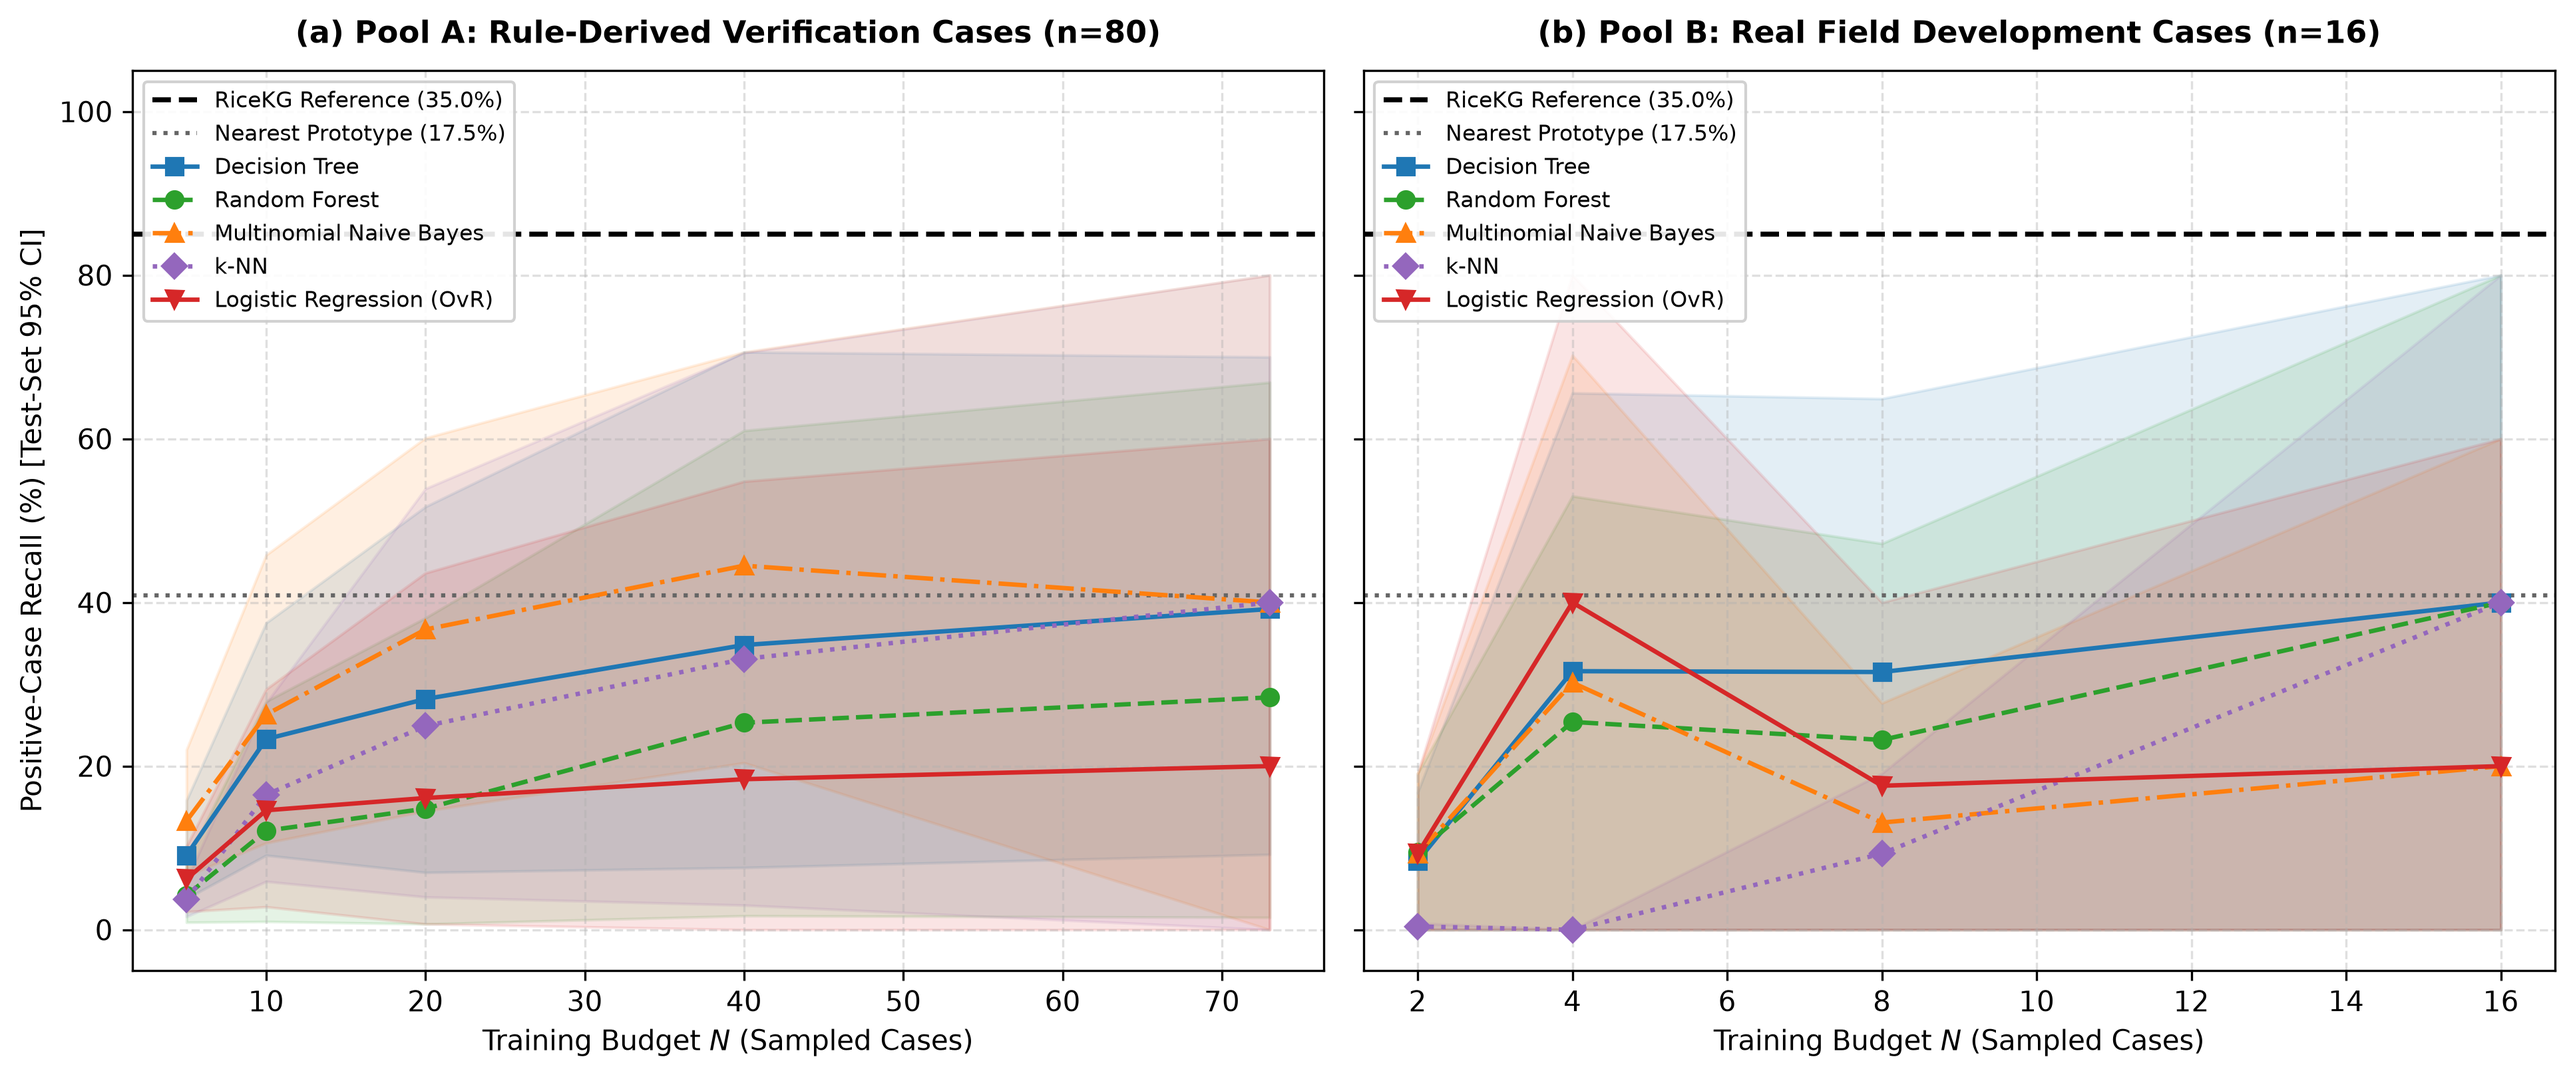
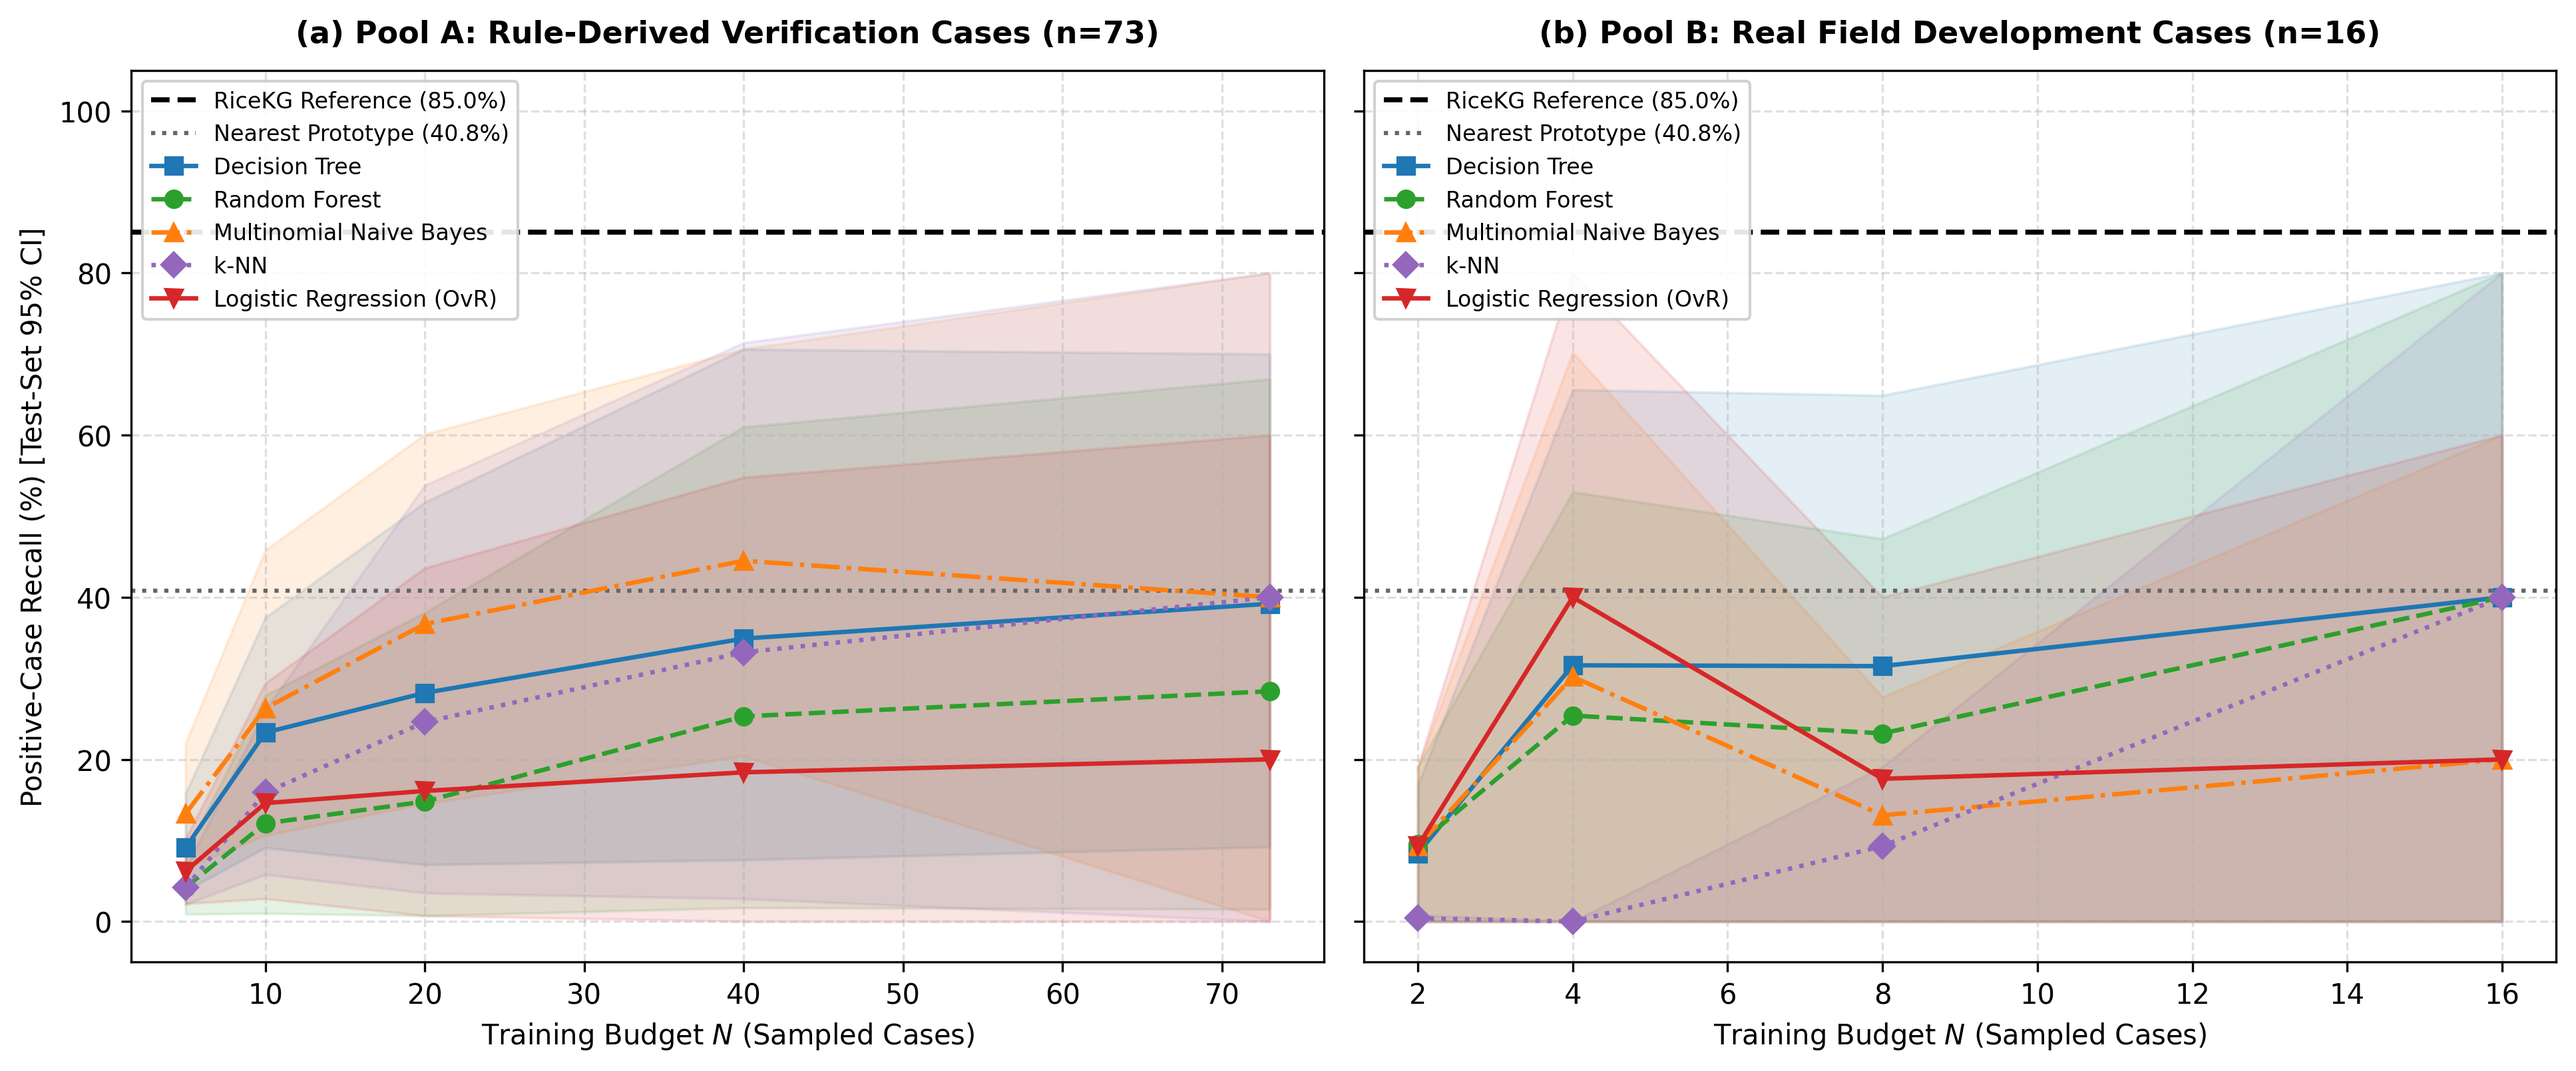
update

diff --git a/analysis/expert_validation.py b/analysis/expert_validation.py
@@ -95,6 +95,36 @@ def diagnosis_agreement(diag_rows, system, truth, rng):
 
         out["system_minus_rater_kappa"] = round(mean_sr - mean_rr, 3)
         out["system_minus_rater_kappa_ci95"] = _boot(n, diff, rng)
+
+        # Collapsed label space. The full space separates an explicit out-of-scope
+        # rejection ("Other") from a silent abstention ("Undetermined"), so a system
+        # that declines without giving a reason is scored as disagreeing with a rater
+        # who declines with one. Collapsing the two asks only whether an in-scope
+        # threat was named, and which -- the comparison that matches the system's
+        # designed scope. Uses its own RandomState so the interval does not depend on
+        # how much of the shared stream the preceding bootstrap consumed.
+        def _collapse(v):
+            return "Other" if v == "Undetermined" else v
+
+        Rc = {r: [_collapse(v) for v in R[r]] for r in raters}
+        Sc = [_collapse(v) for v in S]
+        mean_rr_c = statistics.mean(_kappa(Rc[a], Rc[b]) for a, b in pairs)
+        mean_sr_c = statistics.mean(_kappa(Sc, Rc[r]) for r in raters)
+
+        def diff_c(idx):
+            rr = statistics.mean(_kappa([Rc[a][i] for i in idx], [Rc[b][i] for i in idx]) for a, b in pairs)
+            sr = statistics.mean(_kappa([Sc[i] for i in idx], [Rc[r][i] for i in idx]) for r in raters)
+            return sr - rr
+
+        out["collapsed_label_space"] = {
+            "definition": "Undetermined merged into Other: scores whether an in-scope threat was named, not how a decline was expressed",
+            "pairwise_rater_kappa": {f"{a}-{b}": round(_kappa(Rc[a], Rc[b]), 3) for a, b in pairs},
+            "system_rater_kappa": {r: round(_kappa(Sc, Rc[r]), 3) for r in raters},
+            "mean_rater_rater_kappa": round(mean_rr_c, 3),
+            "mean_system_rater_kappa": round(mean_sr_c, 3),
+            "system_minus_rater_kappa": round(mean_sr_c - mean_rr_c, 3),
+            "system_minus_rater_kappa_ci95": _boot(n, diff_c, np.random.RandomState(SEED)),
+        }
         # A range needs at least two rater pairs (three raters); with two raters the criterion is
         # whether the bootstrap CI of the RiceKG-minus-rater difference includes zero.
         out["system_within_rater_range"] = (
@@ -112,6 +142,24 @@ def diagnosis_agreement(diag_rows, system, truth, rng):
 
     out["vs_published_label"] = {
         who: {"all": acc(labels, range(n)), "positive_cases": acc(labels, pos)}
+        for who, labels in [*((r, R[r]) for r in raters), ("rater majority", majority), ("RiceKG strict", S)]
+    }
+
+    # Collapsed counterpart: a silent abstention ("Undetermined") is counted as an
+    # out-of-scope decline ("Other"), so declining is scored the same however it is
+    # expressed. This isolates how much of the system's apparent disagreement is the
+    # manner of declining rather than the decision itself.
+    def _col(v):
+        return "Other" if v == "Undetermined" else v
+
+    Tc = [_col(t) for t in T]
+
+    def acc_c(labels, idx):
+        lc = [_col(v) for v in labels]
+        return {"k": sum(lc[i] == Tc[i] for i in idx), "n": len(idx)}
+
+    out["vs_published_label_collapsed"] = {
+        who: {"all": acc_c(labels, range(n)), "positive_cases": acc_c(labels, pos)}
         for who, labels in [*((r, R[r]) for r in raters), ("rater majority", majority), ("RiceKG strict", S)]
     }
     out["label_distribution"] = {who: dict(Counter(labels)) for who, labels in [*R.items(), ("RiceKG strict", S)]}
@@ -258,6 +306,21 @@ def write_markdown(rep):
     L += ["", "Agreement with the published label (No_Diagnosis counted as Other):", "",
           "| Who | All cases | Positive cases |", "|:---|:---:|:---:|"]
     L += [f"| {who} | {_pct(v['all'])} | {_pct(v['positive_cases'])} |" for who, v in dx["vs_published_label"].items()]
+    cl = dx.get("collapsed_label_space")
+    if cl:
+        ci = cl["system_minus_rater_kappa_ci95"]
+        L += ["", "### Collapsed label space (`Undetermined` counted as `Other`)", "",
+              "The full label space separates an explicit out-of-scope rejection from a silent abstention, so a "
+              "system that declines without giving a reason is scored as disagreeing with a rater who declines "
+              "with one. Collapsing the two scores only whether an in-scope threat was named, and which.", "",
+              f"Mean rater–rater κ {cl['mean_rater_rater_kappa']}; mean RiceKG–rater κ "
+              f"{cl['mean_system_rater_kappa']}; difference {cl['system_minus_rater_kappa']} "
+              f"[95% CI {ci[0]}, {ci[1]}].", ""]
+        if dx.get("vs_published_label_collapsed"):
+            L += ["Agreement with the published label under the collapsed space:", "",
+                  "| Who | All cases | Positive cases |", "|:---|:---:|:---:|"]
+            L += [f"| {who} | {_pct(v['all'])} | {_pct(v['positive_cases'])} |"
+                  for who, v in dx["vs_published_label_collapsed"].items()]
     enc = rep["encoding"]
     if enc:
         L += ["", f"## Symptom encoding ({enc['n_cases']} cases, {enc['terms_used']} terms used)", "",

diff --git a/analysis/learning_curve.py b/analysis/learning_curve.py
@@ -468,13 +468,19 @@ def generate_publication_figure(
     rk_ref = pool_a_res["zero_shot_references"]["RiceKG (Full Proposed)"]["cv_positive_recall"]
     proto_ref = pool_a_res["zero_shot_references"]["Rule: Nearest Prototype"]["cv_positive_recall"]
 
-    for ax, res, title in [(ax1, pool_a_res, "(a) Pool A: Rule-Derived Verification Cases (n=80)"),
-                           (ax2, pool_b_res, "(b) Pool B: Real Field Development Cases (n=16)")]:
+    for ax, res, title in [
+        (ax1, pool_a_res, f"(a) Pool A: Rule-Derived Verification Cases (n={pool_a_res['pool_size']})"),
+        (ax2, pool_b_res, f"(b) Pool B: Real Field Development Cases (n={pool_b_res['pool_size']})"),
+    ]:
         budgets = res["budgets"]
 
         # Horizontal zero-shot reference lines
-        ax.axhline(rk_ref, color="#000000", ls="--", lw=1.8, label="RiceKG Reference (35.0%)", zorder=3)
-        ax.axhline(proto_ref, color="#666666", ls=":", lw=1.5, label="Nearest Prototype (17.5%)", zorder=2)
+        # Labels are derived from the plotted values so the legend cannot drift
+        # out of step with the data the way it did before ruleset v2.4.0.
+        ax.axhline(rk_ref, color="#000000", ls="--", lw=1.8,
+                   label=f"RiceKG Reference ({rk_ref:.1f}%)", zorder=3)
+        ax.axhline(proto_ref, color="#666666", ls=":", lw=1.5,
+                   label=f"Nearest Prototype ({proto_ref:.1f}%)", zorder=2)
 
         for m_name, st in styles.items():
             means = [res["by_budget"][str(b)]["models"][m_name]["mean_positive_recall"] for b in budgets]
@@ -708,7 +714,7 @@ def main():
     if args.pool in ("A", "both"):
         res_a = run_learning_curve_for_pool(
             pool_name="pool_A",
-            pool_source_desc="Rule-Derived Verification Suite (n=80)",
+            pool_source_desc=f"Rule-Derived Verification Suite (n={len(cases_pool_a)})",
             X_pool=X_pool_a,
             Y_pool=Y_pool_a,
             pool_cases=cases_pool_a,

diff --git a/results/REPORT.md b/results/REPORT.md
@@ -812,7 +812,7 @@ RiceKG predictions are computed with set-containment solvers (`fast_predict_rice
 <a id="learning-curve"></a>
 ## Cold-Start Learning-Curve Evaluation: Sample Efficiency vs. Knowledge Base
 
-> **Generated**: 2026-09-19 01:59:11 UTC  
+> **Generated**: 2026-09-19 09:10:25 UTC  
 > **Target Venue**: *Inteligencia Artificial* (IBERAMIA)  
 > **Evaluation Protocol**: Fixed held-out test set (`data/benchmark_field.csv`, `eval` split, $n=22$: 5 positives, 17 negative controls). $R=200$ stratified resamples without replacement per budget; reported with dual uncertainty decomposition (training-subsample variance across draws and test-set sampling variance via non-parametric paired bootstrap over the test cases, $B=1,000$).
 
@@ -834,10 +834,10 @@ Training cases drawn from `data/verification_suite.csv` ($n=73$, provenance `rul
 
 | Model | N=5 | N=10 | N=20 | N=40 | N=73 | Crossover Budget $N^*$ | First Non-Zero $N$ |
 |:---|:---:|:---:|:---:|:---:|:---:|:---:|:---:|
-| **Decision Tree** | 9.1% [4, 16] | 23.3% [9, 38] | 28.2% [7, 52] | 34.8% [8, 71] | 39.2% [9, 70] | None (≤ 73) | 5 |
+| **Decision Tree** | 9.1% [4, 16] | 23.3% [9, 38] | 28.2% [7, 52] | 34.9% [8, 71] | 39.2% [9, 70] | None (≤ 73) | 5 |
 | **Random Forest** | 4.2% [1, 8] | 12.1% [1, 28] | 14.8% [1, 38] | 25.3% [2, 61] | 28.4% [2, 67] | None (≤ 73) | 5 |
 | **Multinomial Naive Bayes** | 13.3% [7, 22] | 26.3% [11, 46] | 36.7% [14, 60] | 44.5% [20, 71] | 40.0% [0, 80] | None (≤ 73) | 5 |
-| **k-NN** | 3.7% [2, 6] | 16.5% [6, 28] | 24.9% [4, 54] | 33.1% [3, 70] | 40.0% [0, 80] | None (≤ 73) | 5 |
+| **k-NN** | 4.2% [2, 6] | 15.9% [6, 26] | 24.6% [4, 54] | 33.2% [3, 71] | 40.0% [0, 80] | None (≤ 73) | 5 |
 | **Logistic Regression (OvR)** | 6.2% [2, 10] | 14.6% [3, 29] | 16.1% [1, 44] | 18.4% [0, 55] | 20.0% [0, 60] | None (≤ 73) | 5 |
 
 *Zero-shot references on same eval set*: **RiceKG Full Proposed** = **85.00%** (5x2 CV) / **80.0%** runtime point recall [95% CI 40.0, 100.0]; **Nearest Prototype** = **40.83%**; **Flat Single-Tier** = **85.00%**.
@@ -1033,7 +1033,7 @@ and locked prior to benchmark execution (commit `6174e8e`).
 <a id="expert-validation"></a>
 ## Expert-Based Validation
 
-> **Generated by**: `analysis/expert_validation.py` on 2026-09-19T02:16:02 UTC from the tables written by `annotation/import_returns.py`. Protocol: `docs/ANNOTATION_PROTOCOL.md`.
+> **Generated by**: `analysis/expert_validation.py` on 2026-09-19T09:58:26 UTC from the tables written by `annotation/import_returns.py`. Protocol: `docs/ANNOTATION_PROTOCOL.md`.
 
 ### Diagnosis (56 cases, raters R1, R2)
 
@@ -1053,6 +1053,21 @@ Agreement with the published label (No_Diagnosis counted as Other):
 | R2 | 46/56 (82.1%) | 25/30 (83.3%) |
 | rater majority | 44/56 (78.6%) | 25/30 (83.3%) |
 | RiceKG strict | 35/56 (62.5%) | 21/30 (70.0%) |
+
+#### Collapsed label space (`Undetermined` counted as `Other`)
+
+The full label space separates an explicit out-of-scope rejection from a silent abstention, so a system that declines without giving a reason is scored as disagreeing with a rater who declines with one. Collapsing the two scores only whether an in-scope threat was named, and which.
+
+Mean rater–rater κ 0.949; mean RiceKG–rater κ 0.783; difference -0.166 [95% CI -0.322, -0.036].
+
+Agreement with the published label under the collapsed space:
+
+| Who | All cases | Positive cases |
+|:---|:---:|:---:|
+| R1 | 49/56 (87.5%) | 26/30 (86.7%) |
+| R2 | 49/56 (87.5%) | 25/30 (83.3%) |
+| rater majority | 46/56 (82.1%) | 25/30 (83.3%) |
+| RiceKG strict | 47/56 (83.9%) | 21/30 (70.0%) |
 
 ### Symptom encoding (56 cases, 36 terms used)
 
